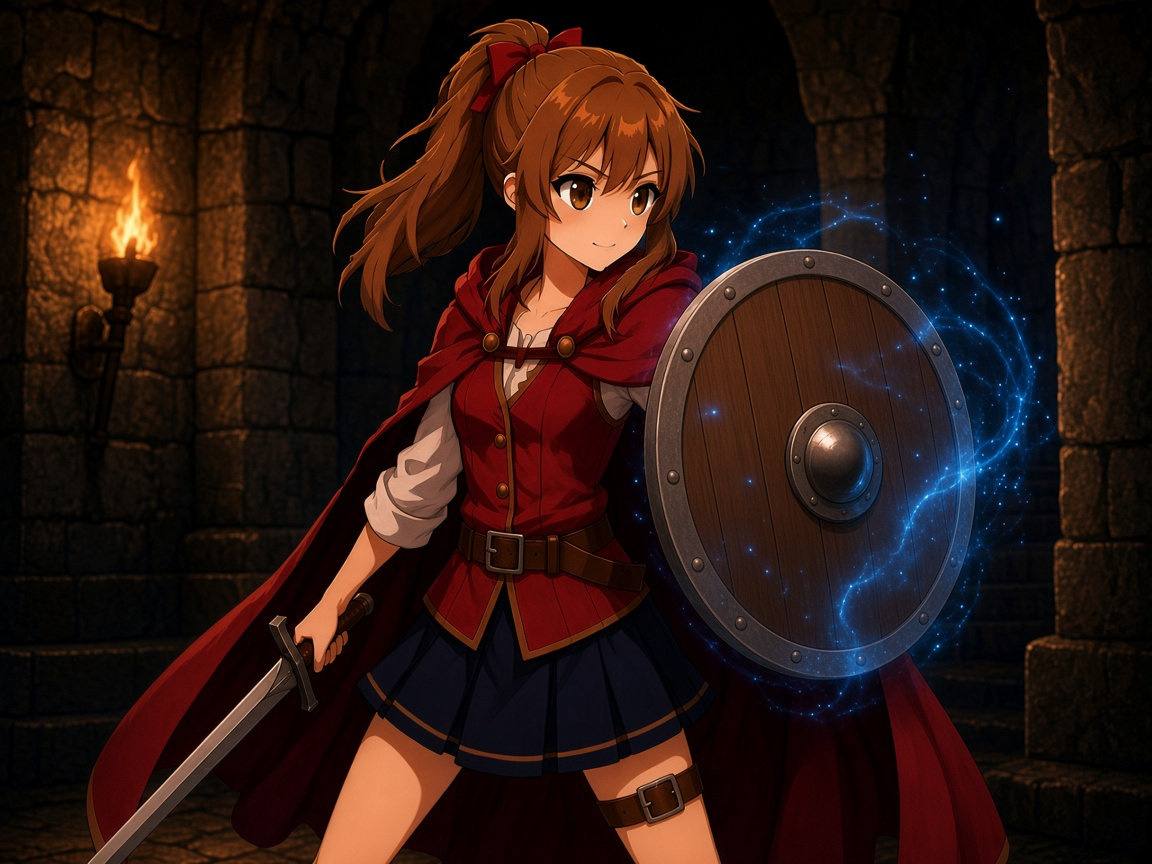
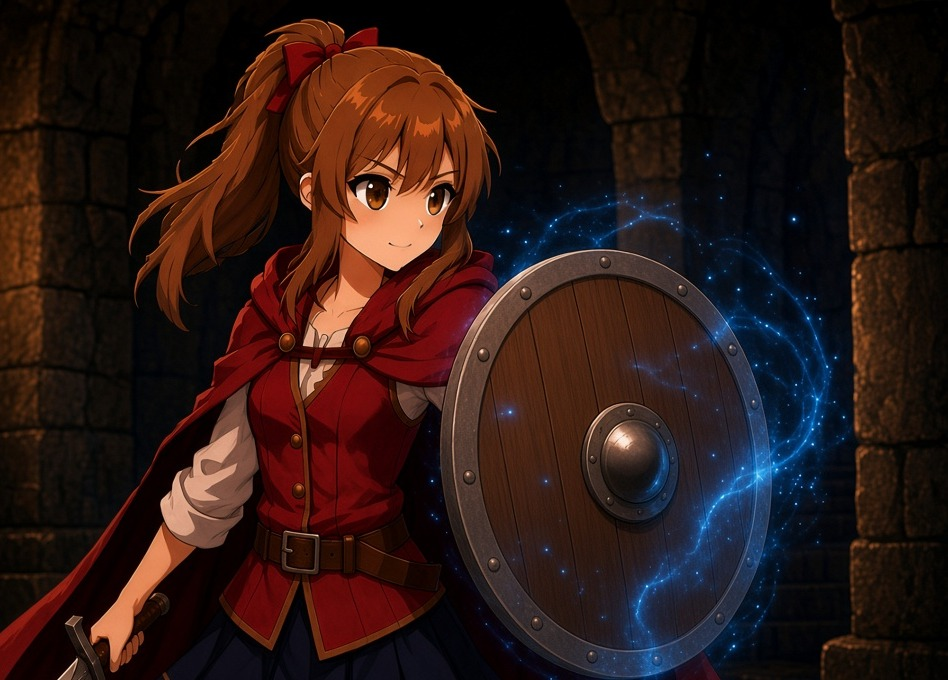
ブロックの絵柄を、元の右端を右端にして頭が欠けない範囲で拡大した。

diff --git a/index.html b/index.html
@@ -6878,7 +6878,7 @@
     const CARD_ART = {
       アタック: "card-attack-f.jpg?v=13",
       チャージアタック: "card-charge-f.jpg?v=7",
-      ブロック: "card-block-f.jpg?v=10",
+      ブロック: "card-block-f.jpg?v=11",
       パリィ: "card-parry.jpg?v=9",
       捨て身の一撃: "card-sacrifice.jpg?v=1",
       怒り: "card-anger.jpg?v=3",
